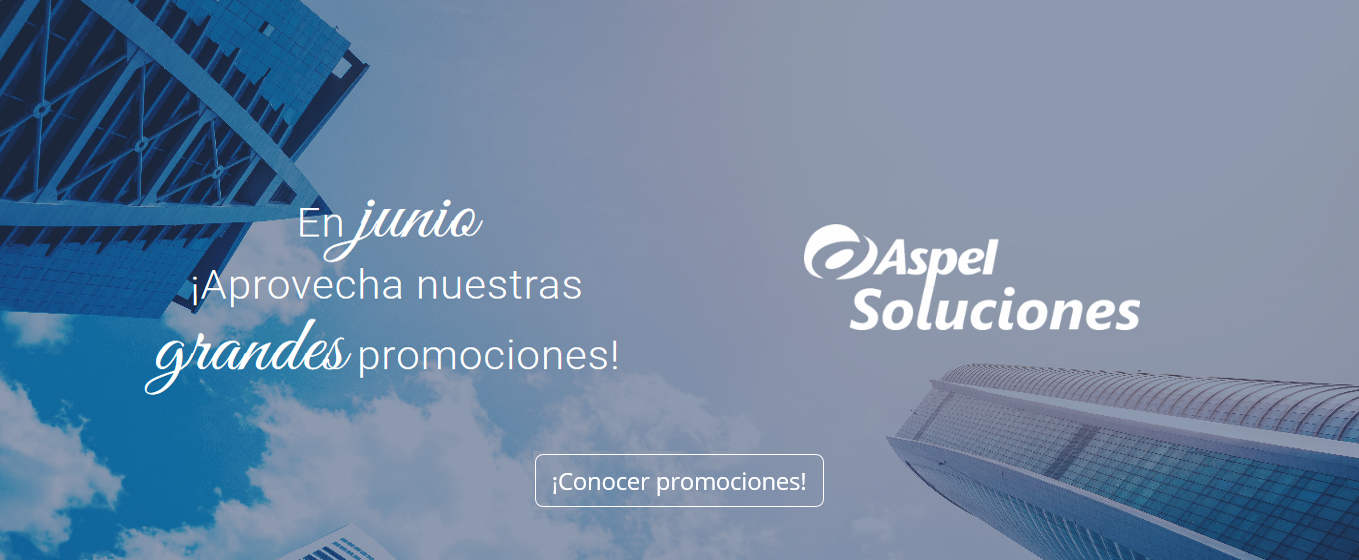
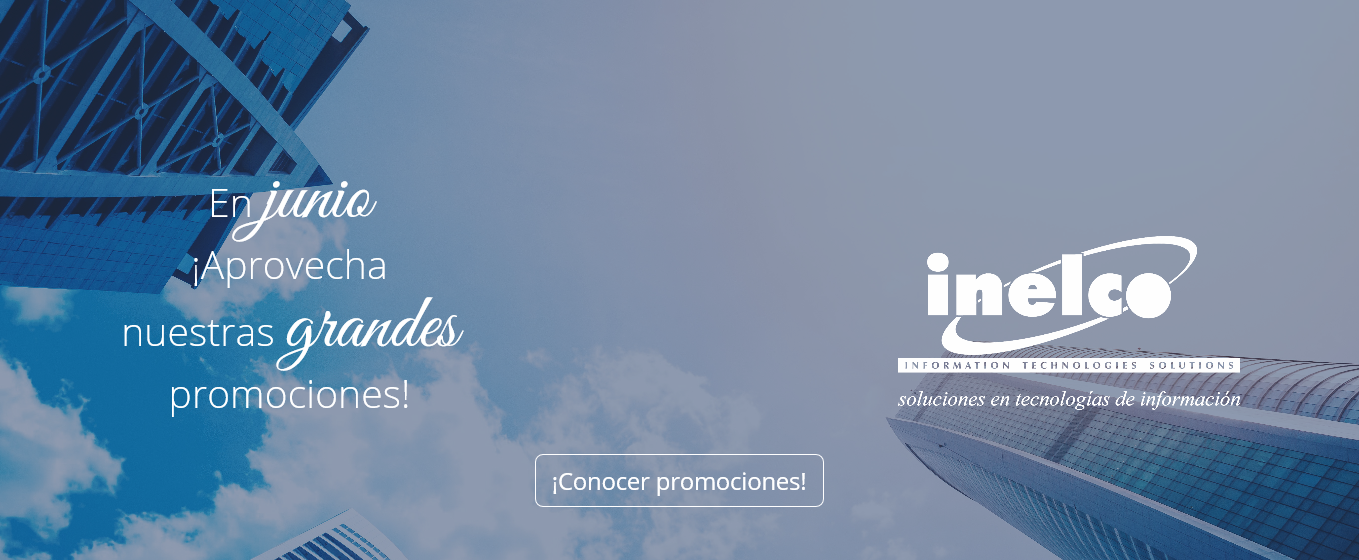
Se actualizaron las promociones al mes de julio 2018

diff --git a/public/css/promociones/promociones-sae-coi-noi-banco.css b/public/css/promociones/promociones-sae-coi-noi-banco.css
@@ -1,6 +1,6 @@
-/* 	===========================================
-					Reglas generales
-	===========================================	*/
+/*  ===========================================
+                    Reglas generales
+    =========================================== */
 
 label {
     color: white;
@@ -52,16 +52,16 @@ ul li {
     font-size: 2.2em !important;
 }
 
-/* 	===========================================
-				Banner de promoción SAE BANCO
-	===========================================	*/
+/*  ===========================================
+                Banner de promoción SAE BANCO
+    =========================================== */
 
 #promos-banner-wallpaper {
     background: url(/images-new/inelco/promocion/sae-coi-noi-banco/wallpaper/inelco-promocion-aspel-sae-coi-noi-banco-wallpaper.jpg);
     background-size: cover;
     background-repeat: no-repeat;
     background-position: center center;
-    padding: 280px 0;
+    padding: 240px 0;
 }
 
 /*#promos-banner-wallpaper .promos-banner {
@@ -90,12 +90,11 @@ ul li {
     color: #4c8b2b;
 }
 
-/*.precio-banner {
+.precio-banner {
     position: relative;
-    left: 400px;
-    top: -100px;
+    top:-40px;
     width: 100%!important;
-}*/
+}
 
 
 
@@ -103,9 +102,9 @@ ul li {
 
 
 
-/* 	===========================================
-					1° separador
-	===========================================	*/
+/*  ===========================================
+                    1° separador
+    =========================================== */
 
 .separador-primario {
     padding: 52px 0;
@@ -139,9 +138,9 @@ video {
     padding: 1px;
 }
 
-/* 	===========================================
-					2° separador
-	===========================================	*/
+/*  ===========================================
+                    2° separador
+    =========================================== */
 
 .separador-secundario {
     padding: 52px 0;
@@ -152,9 +151,9 @@ video {
 
 
 
-/* 	===========================================
-		Sección con ventajas de la interfaz
-	===========================================	*/
+/*  ===========================================
+        Sección con ventajas de la interfaz
+    =========================================== */
 
 .ventajas-section {
     padding: 130px 0;
@@ -186,9 +185,9 @@ video {
     width: 100px;
     height: 100px;
 }
-/* 	===========================================
-					Sección de contacto
-	===========================================	*/
+/*  ===========================================
+                    Sección de contacto
+    =========================================== */
 
 .promo-contacto {
     width: 100%;

diff --git a/resources/views/templates/promociones/promociones.blade.php b/resources/views/templates/promociones/promociones.blade.php
@@ -49,7 +49,7 @@
                 <div class="col-md-6">
                     <div class="text-center center-block">
                         <h2 class="banner-title" align="center">
-                            En <span class="special-text">junio</span>
+                            En <span class="special-text">julio</span>
                             <br>
                             ¡Aprovecha nuestras <span class="special-text">grandes</span> promociones!
                         </h2>
@@ -69,7 +69,7 @@
     </div>
 </section>
 
-<div id="promociones">
+    <div id="promociones">
         <div class="container">
             <div class="row">
 {{--                 <div class="col-md-8 col-md-offset-2">
@@ -88,10 +88,9 @@
                 </div>
                 <div class="col-md-4">
                     <p align="center">
-                        Compra el kit <br/><span style="color:#92232f;">Aspel SAE</span>+<span style="color:#009cb5;">Aspel COI</span>
-                        +<span style="color:#e36800;">Aspel NOI</span> 
-                        <br>y llévate de regalo:
-                        <br><span style="color:#4c8b2b;">Aspel BANCO</span><br/> 
+                        Compra el kit <br/><span style="color:#92232f;">Aspel SAE</span>+<span style="color:#4c8b2b;">Aspel BANCO</span>
+                        <br/><span style="color:#009cb5;">Aspel COI</span>+<span style="color:#e36800;">Aspel NOI</span>
+                        <br/> a sólo: $23,399*
                     </p>
                 </div>
                 <div class="col-md-4">
@@ -121,7 +120,7 @@
                     </h3>
                     <br/>
                     <p align="center">
-                        Combo <br/><span style="color:#92232f;">Aspel SAE</span> + <span style="color:#4c8b2b;">Aspel BANCO</span><br/> a sólo: $12,799*
+                        Combo <br/><span style="color:#92232f;">Aspel SAE</span> + <span style="color:#4c8b2b;">Aspel BANCO</span><br/> a sólo: $13,599*
                     </p>
                     <br>
                     <div class="text-center">
@@ -168,7 +167,7 @@
                     </h3>
                     <br>
                         <p align="center">
-                             Combo <br/><span style="color:#009cb5;">Aspel COI</span> + <span style="color:#4c8b2b;">Aspel BANCO</span><br/> a sólo: $8,599*
+                             Combo <br/><span style="color:#009cb5;">Aspel COI</span> + <span style="color:#4c8b2b;">Aspel BANCO</span><br/> a sólo: $9,299*
                         </p>
                         <br>
                     <div class="text-center">

diff --git a/resources/views/templates/promociones/promocion-sae-coi-noi-banco.blade.php b/resources/views/templates/promociones/promocion-sae-coi-noi-banco.blade.php
@@ -48,16 +48,19 @@
                     <div class="row">
                         <div class="col-md-3">
                             <img src="/images-new/inelco/promocion/sae-coi-noi-banco/logos/inelco-promocion-sae-coi-noi-banco-logo.png" alt="" class="center-block" id="scnb">
+                            <h2 class="text-center vertical-center">
+                               ¡Obtén la máxima productividad de tu empresa!
+                            </h2>
                         </div>
                         {{-- <div class="col-md-4">
                             <img src="/images-new/inelco/promocion/sae-coi-noi-banco/logos/inelco-promos-aspel-sae-coi-noi-banco-precio.png" alt="" class="img-responsive precio-banner">
                         </div>
                     </div>
                     <div class="row"> --}}
-                        <div class="col-md-8">
-                            <h2 class="text-center vertical-center">
-                               ¡Obtén la máxima productividad de tu empresa!
-                            </h2> {{-- <img src="/images-new/inelco/otros/inelco-promos-aspel-sae-banco-mayo.png" alt="" class="img-responsive precio-banner"> --}}
+                        <div class="col-md-4">
+                        </div>
+                        <div class="col-md-4">
+                            <img src="/images-new/inelco/promocion/sae-coi-noi-banco/logos/inelco-promocion-aspel-sae-coi-noi-banco-precio.png" alt="" class="img-responsive precio-banner"> 
                         </div>
                     </div>
                 </div>
@@ -284,7 +287,7 @@
             <div class="row">
                 <div class="col-md-5">
                     <p id="terminos">
-                        *Terminos y condiciones: Precios en MXN + IVA. No incluye servicios. Precio de lista: Aspel SAE $10,225 MXN + IVA,  Aspel COI $5,507 MXN + IVA,  Aspel NOI $5,883 MXN + IVA,  Aspel BANCO $4,850 MXN + IVA. Promoción vigente hasta 30 de junio 2018.
+                        *Terminos y condiciones: Precios en MXN + IVA. No incluye servicios. Precio de lista: Aspel SAE $10,225 MXN + IVA,  Aspel COI $5,507 MXN + IVA,  Aspel NOI $5,883 MXN + IVA,  Aspel BANCO $4,850 MXN + IVA. Promoción vigente hasta el 31 de julio 2018.
                     </p>
                 </div>
             </div>

diff --git a/resources/views/templates/promociones/promocion-coi-banco.blade.php b/resources/views/templates/promociones/promocion-coi-banco.blade.php
@@ -267,7 +267,7 @@
             <div class="row">
                 <div class="col-md-5">
                     <p id="terminos">
-                        *Terminos y condiciones: Precios en MXN + IVA. No incluye servicios. Precio de lista: $10,357 MXN + IVA. Promoción vigente hasta 30 de junio 2018.
+                        *Terminos y condiciones: Precios en MXN + IVA. No incluye servicios. Precio de lista: $10,357 MXN + IVA. Promoción vigente hasta el 31 de julio 2018.
                     </p>
                 </div>
             </div>

diff --git a/resources/views/templates/promociones/promocion-coi-noi.blade.php b/resources/views/templates/promociones/promocion-coi-noi.blade.php
@@ -267,7 +267,7 @@
             <div class="row">
                 <div class="col-md-5">
                     <p id="terminos">
-                        *Terminos y condiciones: Precios en MXN + IVA. No incluye servicios. Precio de lista: $11,390 MXN + IVA. Promoción vigente hasta 30 de junio 2018.
+                        *Terminos y condiciones: Precios en MXN + IVA. No incluye servicios. Precio de lista: $11,390 MXN + IVA. Promoción vigente hasta el 31 de julio 2018.
                     </p>
                 </div>
             </div>

diff --git a/resources/views/templates/promociones/promocion-sae-banco.blade.php b/resources/views/templates/promociones/promocion-sae-banco.blade.php
@@ -289,7 +289,7 @@
             <div class="row">
                 <div class="col-md-5">
                     <p id="terminos">
-                        *Terminos y condiciones: Precios en MXN + IVA. No incluye servicios. Precio de lista: $15,075 MXN + IVA. Promoción vigente hasta 30 de junio 2018.
+                        *Terminos y condiciones: Precios en MXN + IVA. No incluye servicios. Precio de lista: $15,075 MXN + IVA. Promoción vigente hasta el 31 de julio 2018.
                     </p>
                 </div>
             </div>
